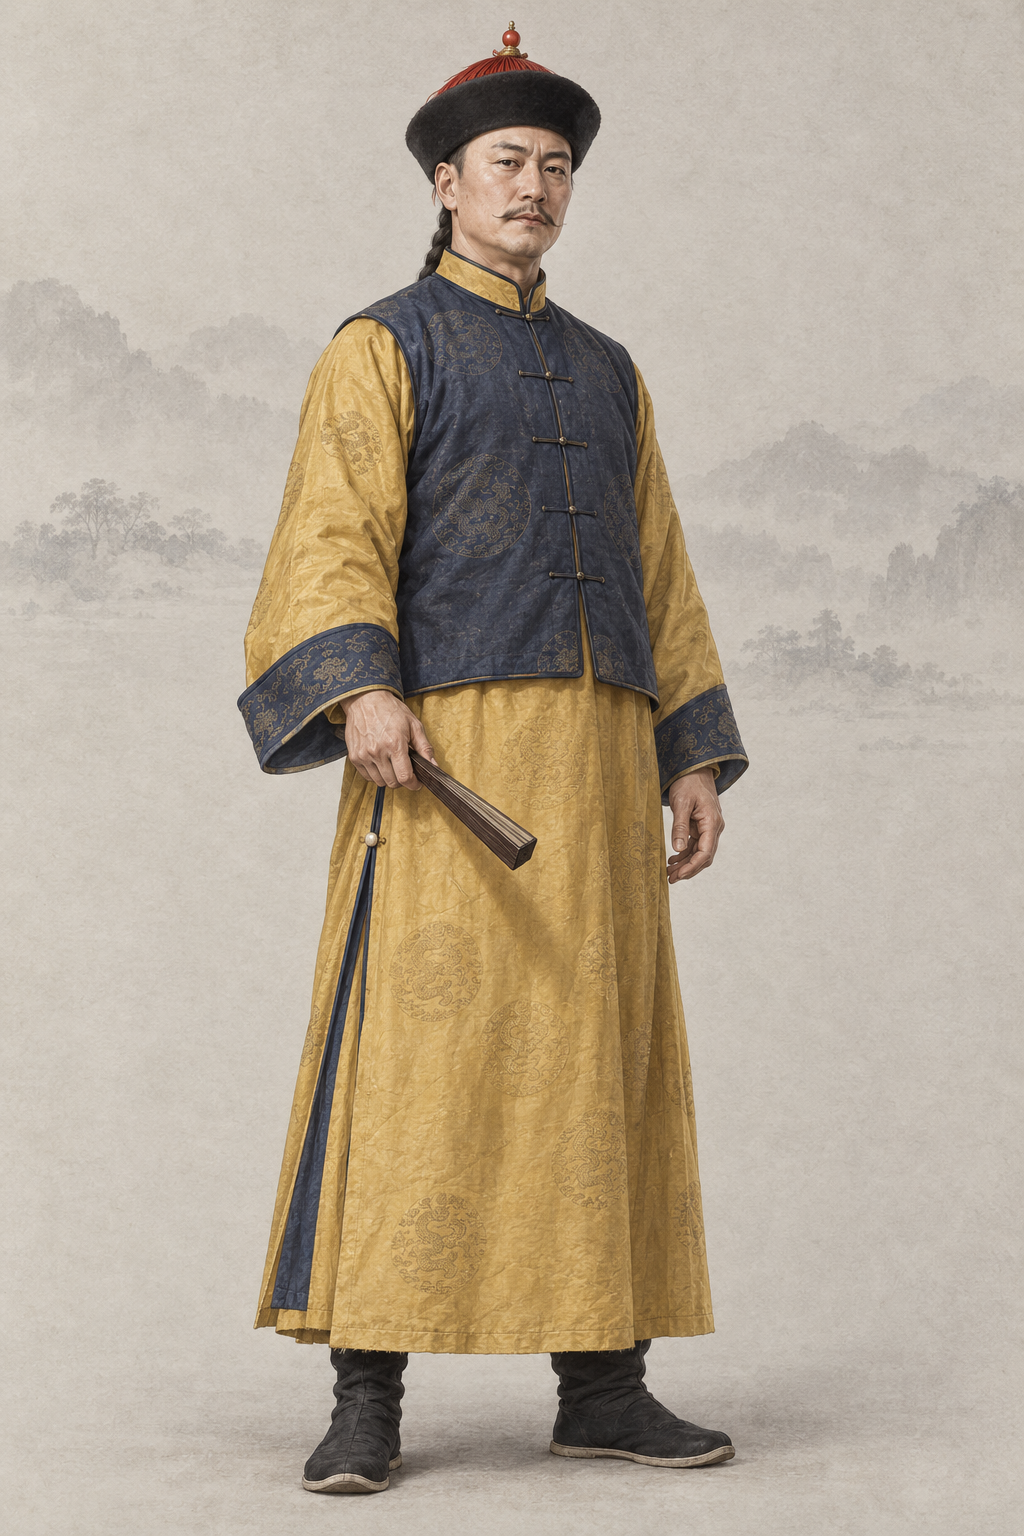
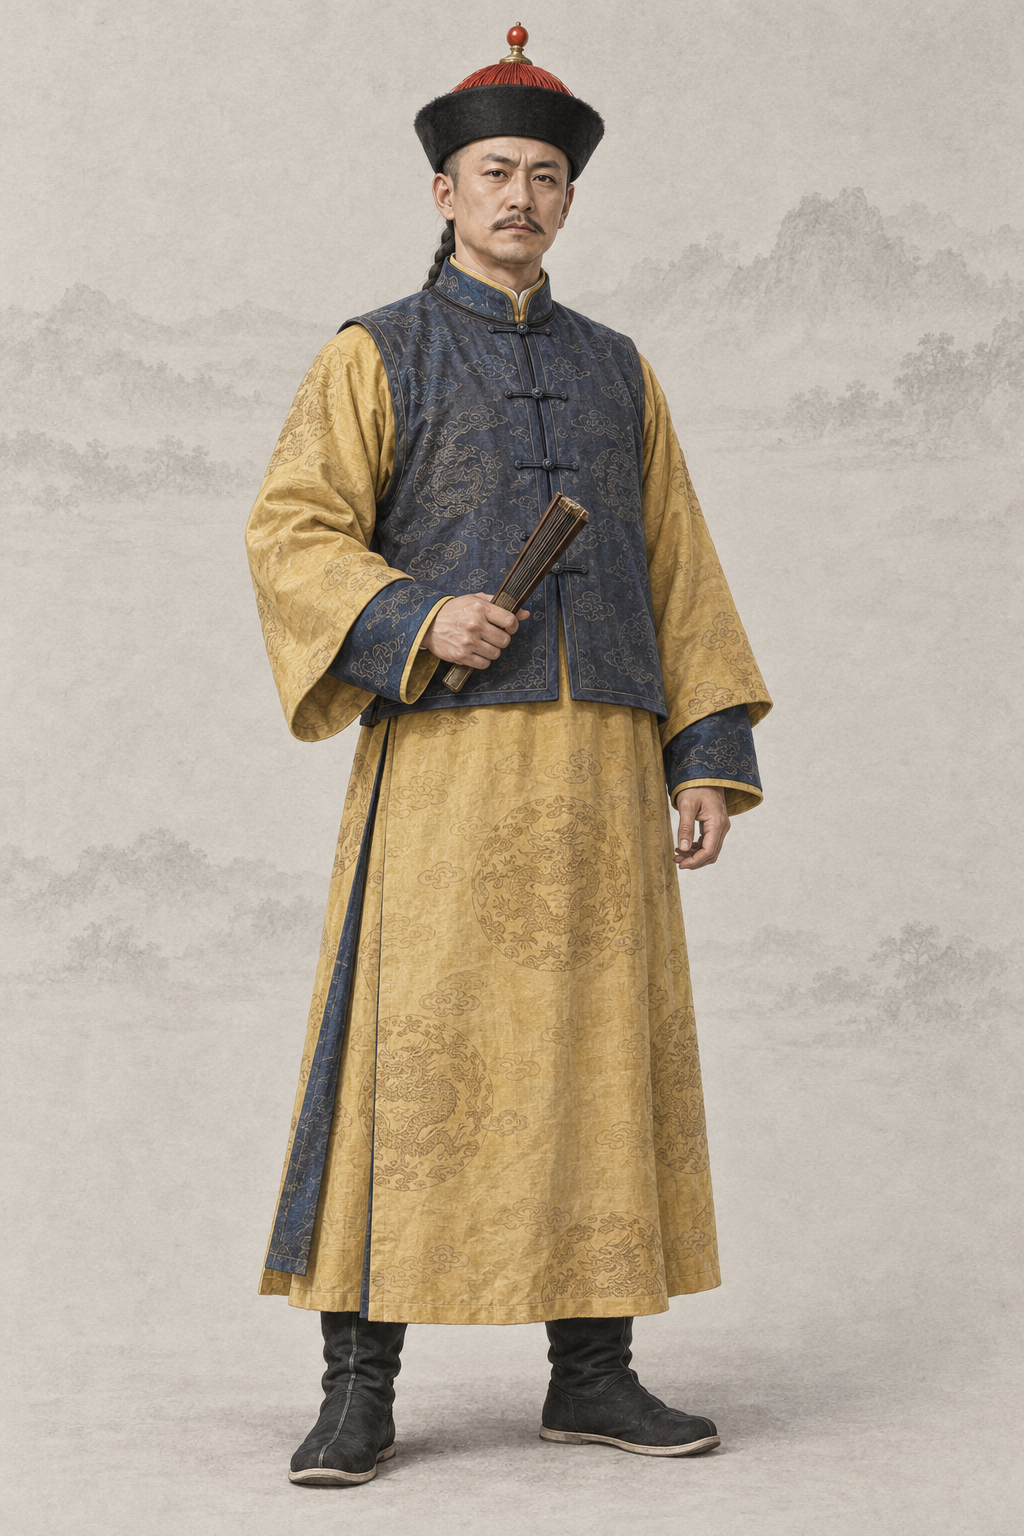
assets(character): por_npc_qianlong__ch12_prime_palace_base 乾隆（codex · AR-32 主要角色重出，本机无剧照：文字 + 基线）
本机无剧照，文字 + 基线；提示词写回「## Gemini 提示词」，上一版留作历史，frontmatter 加 classic_ref。

diff --git a/assets/default/prompts/characters/ch12-shujian/npc_qianlong.md b/assets/default/prompts/characters/ch12-shujian/npc_qianlong.md
@@ -13,9 +13,14 @@ references:
     use: candidate，当前工作副本 manifest 尚未批准；仅拟参考纸底、光线、笔触与设色，不沿用面容、体型、服饰或道具
 status: new
 redo_reason: "书剑主要对手尚无立绘；补出中年帝王形象，与陈家洛有兄弟相但年龄气质分明。"
+codex_prompt_rev: 2026-10-02
+classic_ref:
+  version: "无剧照（本机没有1976 年 TVB《书剑恩仇录》里该角色的剧照，经典造型用文字描写）"
+  stills: []
+  note: "本机没有该角色的经典版剧照，只用文字和两张同性别基线出图（AR-32）"
 reference_upload:
 - assets/default/baseline/character/male/ref_npc_linghuchong__ch05_base01.png
-codex_prompt_rev: 2026-10-02
+- assets/default/baseline/character/male/ref_npc_xiaofeng__ch01_base01.png
 ---
 
 <!-- full-coverage-import:current-policy:v1 -->
@@ -28,6 +33,26 @@ codex_prompt_rev: 2026-10-02
 # 乾隆 · 《书剑恩仇录》（ch12）
 
 ## Gemini 提示词
+
+> 2026-10-02 AR-32 经典剧照重出（6 号出图员，codex exec · image_gen 出图）：本机没有该角色剧照：只上传两张同性别基线，经典造型用文字描写。剧照只借鉴发型、服饰、配色、标志道具、气质与面部特征，重新绘制成项目画风，不照搬照片的构图、光影和姿势；人物一律成年；清代男子按清制剃额留辫。提示词里不写演员名。上一版提示词保留在下一节作历史。
+
+```text
+生成一张 2:3 竖幅全身人物立绘：单人、单一视角、完整全身——头顶、双手、双脚和手中器物的两端都在画面内，四周留出自然空白；人物站姿自然，身体基本朝向正面，头部端正（不歪头、不仰不俯），镜头平视。
+【参考图】随提示词上传的两张参考图是本项目画风基线：画风、用色、光线、质感和暖浅灰纸底加淡水墨背景以它们为准；只取画风，不取长相。
+【画风】写实手绘古风人物插画，与本项目写实武侠角色立绘同一画风，像功力深厚的画师用细腻笔触画出的真实人物。手绘插画质感，不是 CG 渲染：不要过度光滑的皮肤、完美对称的五官、塑料高光、过度锐利的发丝；保留自然的笔触和细微不完美。皮肤有真实质感——细小毛孔、细纹、晒痕和自然的左右不对称，不磨皮、不油亮；头发是一缕缕自然的发丝和少量碎发；布料看得出经纬纹理、厚薄和自然垂坠的褶皱，带穿用过的轻微旧化，但完整不破烂；整体设色低饱和、沉稳；柔和的自然光从左上方照来，明暗过渡自然，不打舞台光、轮廓光或美颜柔光。不是照片，不是三维渲染，不是动漫或游戏 CG，也不是油画（没有厚涂笔触和画布纹理）。
+【背景】不透明的暖浅灰色纸底，只在远处有极淡的水墨远山和薄雾，大面积留白；人物与背景明暗分明、轮廓边缘干净完整（后续要自动抠图），水墨和纸纹只在背景里，不侵入人物和衣服；脚下只有很淡的一点接触阴影。
+【人物】乾隆皇帝，金庸《书剑恩仇录》中陈家洛的同胞兄长、主要对手，在位中年，宫中与红花会对峙的时期。
+【年龄与体态】约四十五岁的男人，中等身材，略见发福但腰背挺直，约七个半头身。
+【经典造型】要一眼认出是乾隆皇帝——红缨暖帽、明黄常服外罩石青褂、手执折扇、八字短髭，丰润精明、风流自负，有帝王的城府与威仪。
+【面容】宽长方脸，两颊丰润；细长的凤眼，眼神精明、带着审视和城府；眉毛修长；鼻梁挺直偏长；唇上留修整的八字短髭，下巴光洁；白净的皮肤上有中年的眼袋和法令纹。和陈家洛有几分兄弟般的相像（同样的长鼻和眉形），但更丰满、更老成。
+【发式】清代男子发式：前额剃净，后脑长辫；头戴清代暖帽（帽檐向上翻起的黑色帽子），帽顶有红缨和小珠顶。
+【服饰】明黄色圆领右开襟长袍，马蹄袖，领口袖口镶深蓝边，袍面只有少量暗金线团龙纹；外罩一件石青色对襟短褂；黑色朝靴。是简化的宫廷常服，不是戏台龙袍。
+【道具与姿态】右手握一柄合拢的素面折扇；不拿兵器。背脊挺直，两脚自然分开，神情温和而警惕，带着帝王的从容。
+【不要】画面里不要任何文字、题款、印章、签名、水印、台标、边框、分格或多视图；不要第二个人；不要幼态（童颜、娃娃脸、婴儿肥、儿童或少年身材、大头小身）；不要塑料感皮肤、磨皮美颜、网红脸（尖下巴大眼高鼻的模板脸）、过度对称、浓妆、偶像式打光、蜡像感；不要照片质感、三维渲染或动漫大眼；不要歪头、斜镜头；不要多指、缺指（设定的伤残除外）、手与器物粘连或悬空；汉式交领必须右衽（穿着者的左襟压在右襟上），不要左衽（设定为少数民族服制的除外），不要水平镜像；不要现代物品、日式服饰或日本刀、发光特效、法阵或能量光。不要龙椅、玉玺、圣旨或任何字；不要戏台式夸张龙袍、满身金龙；不要年轻小生脸；不要络腮胡。
+【画风基线】随提示词上传的参考图里，最后两张是本项目的立绘画风基线：只参考它们的画风、用色、光线、质感和暖浅灰纸底加淡水墨的背景处理，整体画风必须与它们一致——精细写实的数字手绘插画，不是油画，不要厚涂笔触和画布纹理。基线图只取画风，不取长相：不要照搬基线图里人物的长相、年龄、发型、服饰和姿势。
+```
+
+## 上一版 Gemini 提示词（2026-10-02 文字版；AR-32 经典剧照重出前，历史，不再用于出图）
 
 > 2026-10-02 Codex 人物线 2 号（AR-31）：在审核组稿上补一行「经典形象」（借鉴公认经典造型的发式、装束、配色、标志道具与气质，只写文字，不写演员名、不上传剧照），并补去 AI 化要求。本轮出图用下面第一个代码块；审核组原稿保留在其后的「审核组原稿」小节作历史。
 
